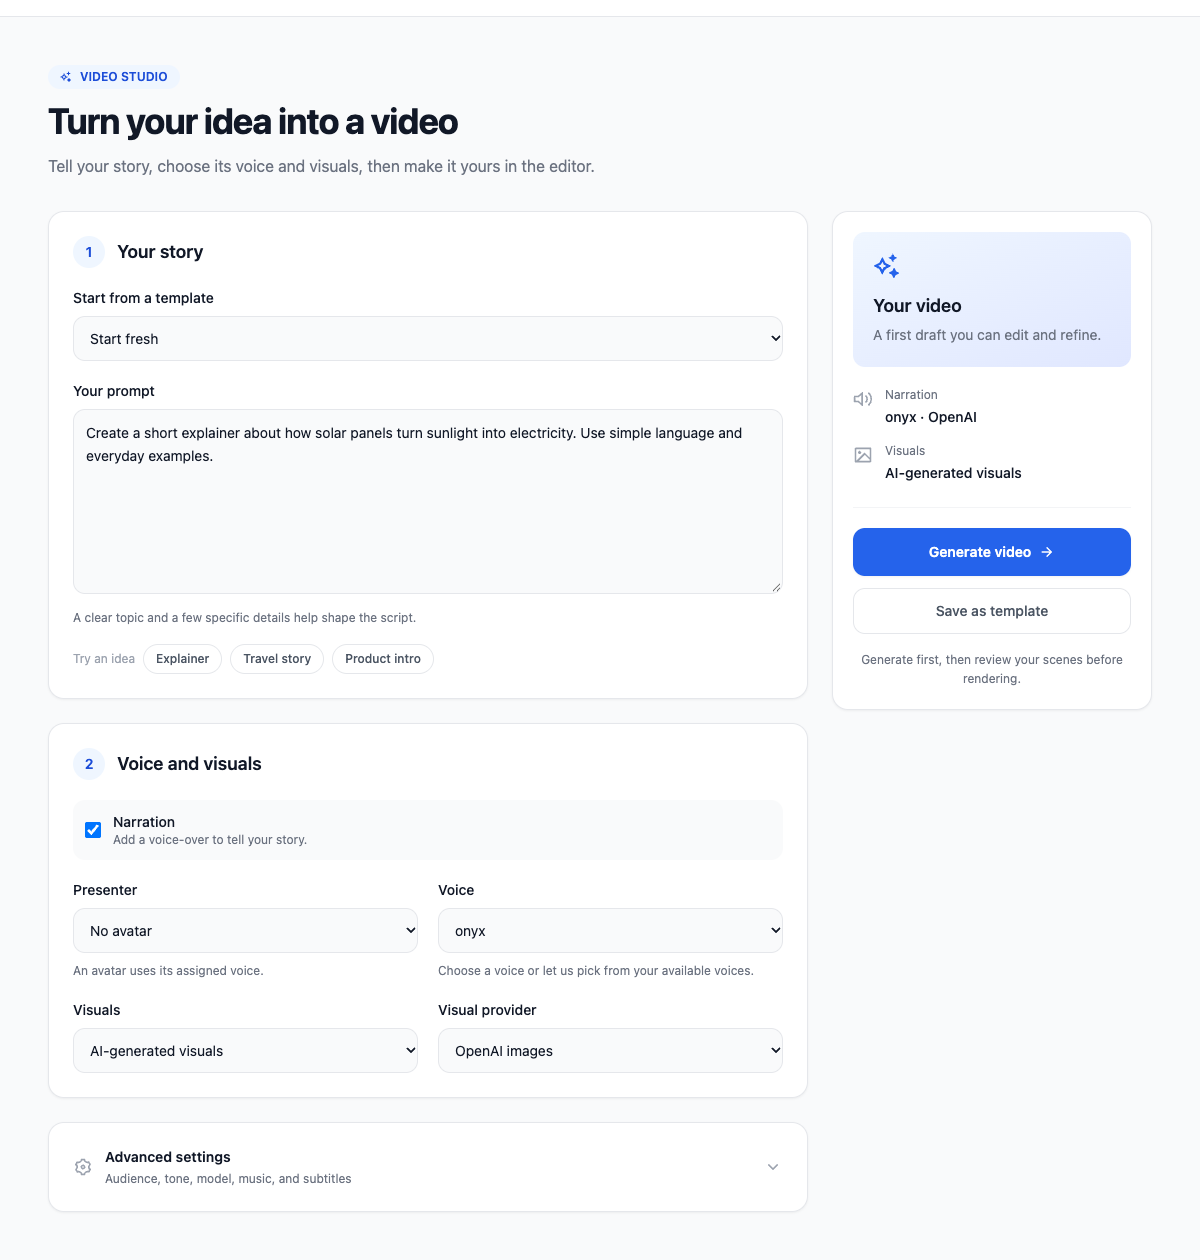
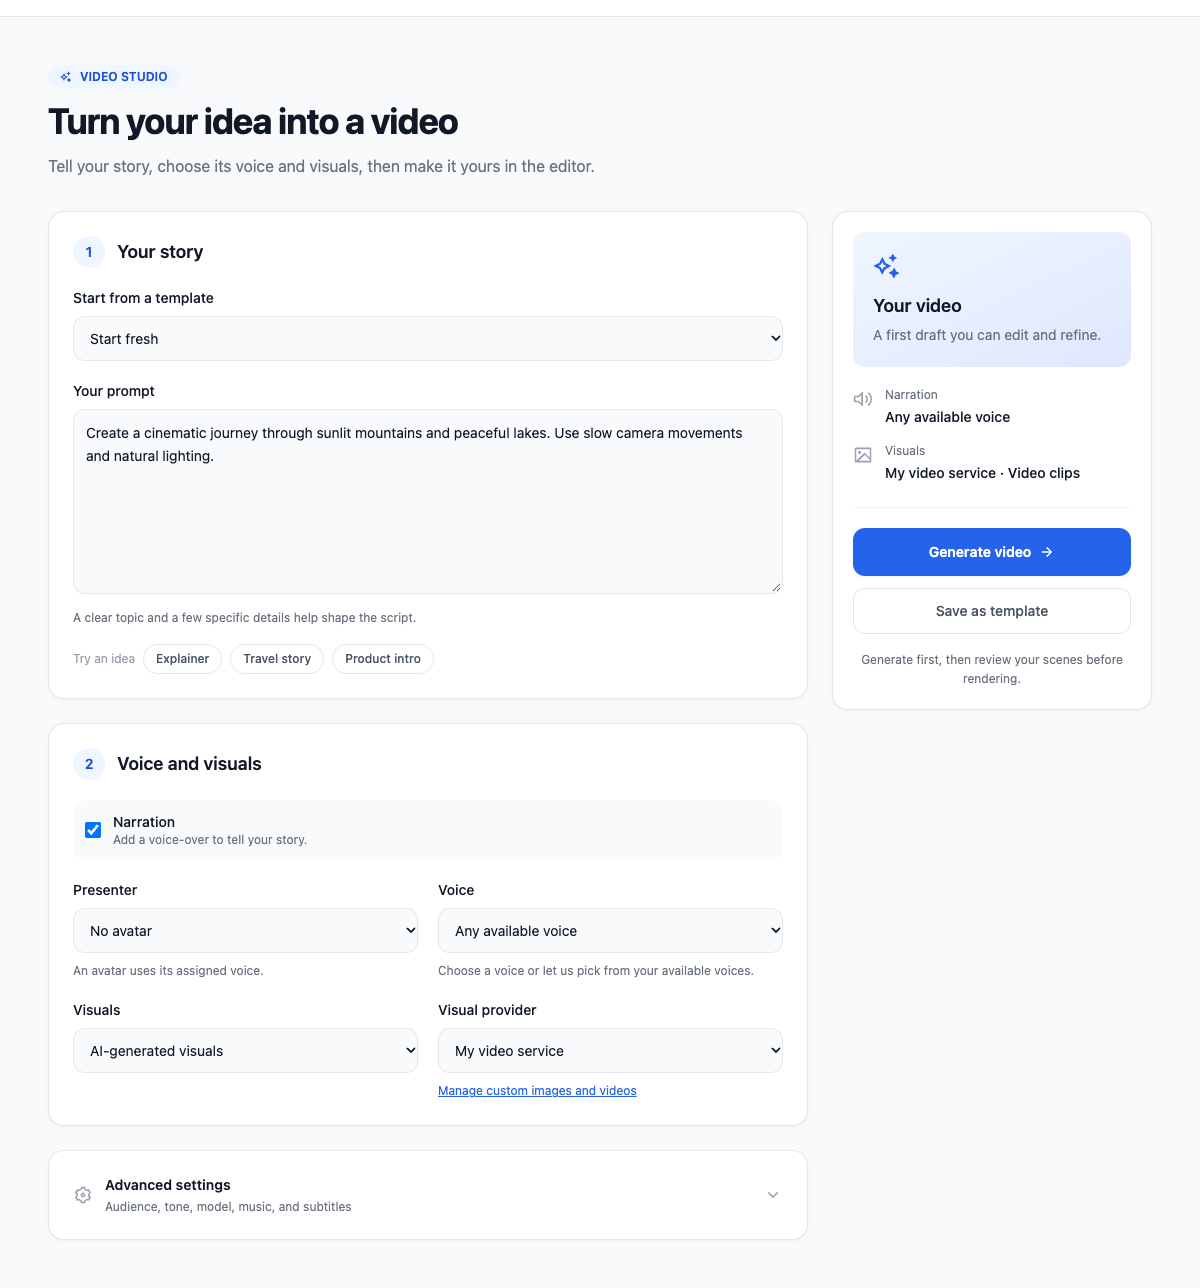
add custom provider

diff --git a/README.md b/README.md
@@ -3,7 +3,9 @@
 ## Short Description
 Viddie is an AI-powered platform for automated video creation, utilizing advanced machine learning models. It streamlines video production by combining OpenAI GPT models for script generation, API text-to-speech (OpenAI, ElevenLabs or 60dB) for speech synthesis, OpenAI `gpt-image` models for image generation, and SadTalker for avatar animation. This allows users to generate high-quality videos with minimal manual effort.
 
-![The generation form](docs/screenshots/generate.png)
+You can also connect custom image and video APIs to generate visuals for each scene.
+
+![The generation form with a custom video provider](docs/screenshots/generate.png)
 
 ## Frontend
 
@@ -258,17 +260,19 @@ Keys do not have to live in `.env`. Signed in, choose **Providers** in the main 
 or **API keys and providers** in the account menu, to manage your own from the
 browser (<http://localhost:3000/api-keys/>).
 
-The page has two tabs: **Built-in API keys** for the supported services, and
-**Custom voice providers** for your own text-to-speech service. Switching tabs keeps
-unsaved changes in place.
+The page has three tabs: **Built-in API keys** for the supported services,
+**Custom voice providers** for your own text-to-speech service, and
+**Custom images and videos** for your own visual generation service. Switching tabs
+keeps unsaved changes in place.
 
 ![Built-in API keys with separate provider tabs](docs/screenshots/api-keys.png)
 
-The page has one switch at the top that decides whose keys generation spends:
+The page has one switch at the top that selects keys for built-in services and
+controls access to custom voice providers:
 
 | Switch | What gets used |
 | --- | --- |
-| **Use my own keys** — off (default) | The service keys from `.env`. Anything you saved is kept but unused. |
+| **Use my own keys** — off (default) | The service keys from `.env`. Your saved built-in keys and custom voice providers are kept but unused. |
 | **Use my own keys** — on | Your saved provider keys and your custom voice providers. |
 
 The **Built-in API keys** tab lists the supported services: OpenAI, Anthropic, Google Gemini,
@@ -277,7 +281,7 @@ id), and the Twitch client id and secret. Enter the keys you want to change, the
 click **Save**. Only changed fields are sent, so updating one never disturbs the
 rest. **Clear** marks a single key for removal on save; **Remove all my keys** removes
 all built-in provider keys after confirmation. Custom providers are managed separately
-in their own tab.
+in their own tabs.
 
 ![Confirming removal of built-in provider keys](docs/screenshots/modal-clear-keys.png)
 
@@ -341,6 +345,64 @@ names stay fixed after creation; add a new provider to use a different name.
 **Delete** asks for confirmation and removes the provider and its imported voices.
 Unsaved form changes are kept until you save or explicitly discard them.
 
+### Custom image and video providers
+
+Open **Providers → Custom images and videos** to connect an image or video API.
+These providers belong to your account and use their configured credentials,
+regardless of the **Use my own keys** switch.
+
+![Custom image and video providers](docs/screenshots/custom-visual-providers.png)
+
+Choose **Add provider** and enter:
+
+1. **Provider name:** a unique name, different from the built-in provider names.
+2. **Output type:** **Video clips** or **Still images**.
+3. **Generation endpoint URL:** the endpoint that accepts the generation request.
+4. **Authentication:** bearer token, custom header, basic authentication
+   (`username:password`), or no authentication. For a custom header, also enter its name.
+
+Under **Advanced: request settings**, change **Prompt field name** if your API uses
+something other than `prompt`. **Extra parameters (JSON)** accepts an object for
+settings such as a model or duration. For example, `{"model": "my-video-model", "duration": 8}`.
+The generated prompt overrides any extra parameter with the same field name.
+
+![Adding a custom video provider](docs/screenshots/custom-visual-provider-form.png)
+
+The service receives a JSON POST for each scene. With the defaults and the example
+parameters above, the request looks like:
+
+```json
+{
+  "prompt": "A slow camera pan across a sunlit mountain lake",
+  "model": "my-video-model",
+  "duration": 8
+}
+```
+
+The endpoint must return completed media bytes, or JSON containing an HTTP(S) media
+URL. Set the response's `Content-Type` to `application/json` when returning JSON:
+
+```json
+{
+  "video_url": "https://media.example.com/clips/generated.mp4"
+}
+```
+
+`url` is also accepted, as is `image_url` for still images. The URL can instead be
+inside the first item of a `data` array, such as `{"data": [{"url": "https://media.example.com/generated.mp4"}]}`.
+Returned URLs must be downloadable without additional authentication headers;
+a signed URL works. The configured credentials are sent only to the generation endpoint.
+Services that return only a job ID and require polling are not supported.
+
+After saving, choose **AI-generated visuals** on the generation page, then pick your
+provider under **Custom video providers** or **Custom image providers** in
+**Visual provider**. **Manage custom images and videos** opens the provider settings.
+
+Use **Edit** to change the endpoint, output type, authentication, or request settings.
+Leave the credential blank to keep it, enter a replacement, or select **Clear saved
+credential on save** to remove it. Names stay fixed after creation. **Delete** removes
+the provider after confirmation; media already generated remains available.
+
 ### Keys and voices
 
 After updating an existing installation, run `python manage.py migrate` in the
@@ -397,6 +459,8 @@ You still get the same thing by email, so closing the tab is safe either way.
 The generation page separates your story from its voice and visuals. Write a prompt,
 use one of the example ideas, or choose **Start from a template**. Pick a presenter
 or a voice, then choose web images or AI-generated visuals and their provider.
+Your saved custom image and video providers appear in **Visual provider** when
+**AI-generated visuals** is selected.
 
 The **Your video** panel summarizes those choices and contains **Generate video**.
 Narration can be turned off for a video made from clips only. **Advanced settings**
@@ -555,6 +619,7 @@ For any inquiries or support, feel free to reach out:
 
 ## Recent Updates
 
+✅ Added custom image and video providers with configurable authentication, prompt fields, and extra request parameters\
 ✅ Save the generation form as a named template and pick it again later, with a delete button beside the picker\
 ✅ Fixed the "video completed" and "video failed" emails, which went out addressed to the subject line rather than to you\
 ✅ Fixed pressing render on a finished video reporting success before the render had started\
